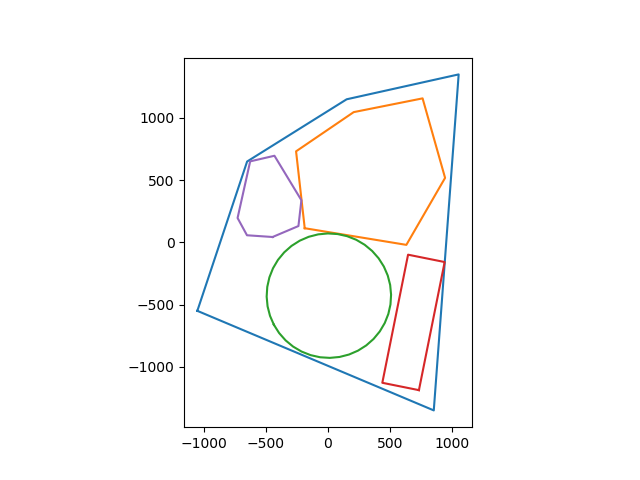
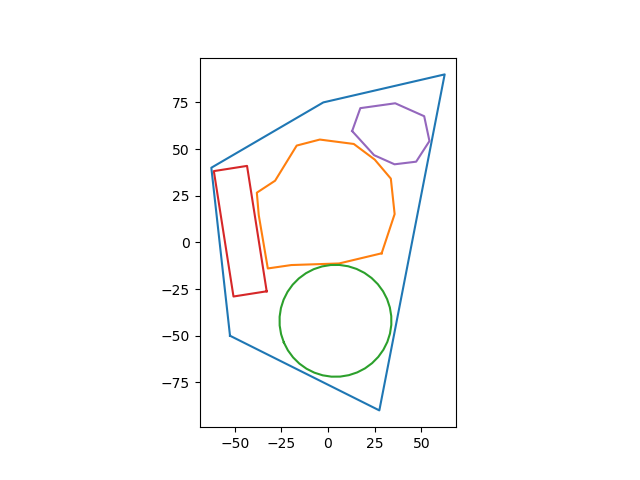
Fix some coords, update solutions

diff --git a/intelligent_placer_lib/objects_carver.py b/intelligent_placer_lib/objects_carver.py
@@ -21,9 +21,9 @@ predefined_convex_hulls = [
     [get_rect([45, 95]), "плеер"],
     [get_rect([45, 95]), "плеер"],
     [get_rect([45, 95]), "плеер"],
-    [[[117, 81],[106, 101],[95, 103],[93, 110],[75, 118],[67, 110],[60, 93],[42, 75],[20, 56],[11, 37],[15, 21],[33, 7],[65, 15],[86, 44],[104, 66]], "мышь"],
-    [[[117, 81],[106, 101],[95, 103],[93, 110],[75, 118],[67, 110],[60, 93],[42, 75],[20, 56],[11, 37],[15, 21],[33, 7],[65, 15],[86, 44],[104, 66]], "мышь"],
-    [[[117, 81],[106, 101],[95, 103],[93, 110],[75, 118],[67, 110],[60, 93],[42, 75],[20, 56],[11, 37],[15, 21],[33, 7],[65, 15],[86, 44],[104, 66]], "мышь"],
+    [[[117, 81], [106, 101], [95, 103], [93, 110], [75, 118], [67, 110], [20, 56], [15, 21], [33, 7], [65, 15], [86, 44], [104, 66]], "мышь"],
+    [[[117, 81], [106, 101], [95, 103], [93, 110], [75, 118], [67, 110], [20, 56], [15, 21], [33, 7], [65, 15], [86, 44], [104, 66]], "мышь"],
+    [[[117, 81], [106, 101], [95, 103], [93, 110], [75, 118], [67, 110], [20, 56], [15, 21], [33, 7], [65, 15], [86, 44], [104, 66]], "мышь"],
     [get_rect([55, 85]), "проездной"],
     [get_rect([55, 85]), "проездной"],
     [get_rect([55, 85]), "проездной"],
@@ -39,14 +39,14 @@ predefined_convex_hulls = [
     [get_ideal_polygon(30, 40), "йо-йо"],
     [get_ideal_polygon(30, 40), "йо-йо"],
     [get_ideal_polygon(30, 40), "йо-йо"],
-    [[[29, 53], [12, 45], [11, 29], [11, 17], [17, 7], [30, 5], [41, 13], [41, 30], [33, 37]], "точилка"],
-    [[[29, 53], [12, 45], [11, 29], [11, 17], [17, 7], [30, 5], [41, 13], [41, 30], [33, 37]], "точилка"],
-    [[[29, 53], [12, 45], [11, 29], [11, 17], [17, 7], [30, 5], [41, 13], [41, 30], [33, 37]], "точилка"],
-    [[[29, 53], [12, 45], [11, 29], [11, 17], [17, 7], [30, 5], [41, 13], [41, 30], [33, 37]], "точилка"],
-    [[[29, 53], [12, 45], [11, 29], [11, 17], [17, 7], [30, 5], [41, 13], [41, 30], [33, 37]], "точилка"],
-    [[[29, 53], [12, 45], [11, 29], [11, 17], [17, 7], [30, 5], [41, 13], [41, 30], [33, 37]], "точилка"],
-    [[[29, 53], [12, 45], [11, 29], [11, 17], [17, 7], [30, 5], [41, 13], [41, 30], [33, 37]], "точилка"],
-    [[[29, 53], [12, 45], [11, 29], [11, 17], [17, 7], [30, 5], [41, 13], [41, 30], [33, 37]], "точилка"],
+    [[[18, 45], [11, 29], [11, 17], [17, 7], [30, 5], [41, 13], [41, 30], [31, 46]], "точилка"],
+    [[[18, 45], [11, 29], [11, 17], [17, 7], [30, 5], [41, 13], [41, 30], [31, 46]], "точилка"],
+    [[[18, 45], [11, 29], [11, 17], [17, 7], [30, 5], [41, 13], [41, 30], [31, 46]], "точилка"],
+    [[[18, 45], [11, 29], [11, 17], [17, 7], [30, 5], [41, 13], [41, 30], [31, 46]], "точилка"],
+    [[[18, 45], [11, 29], [11, 17], [17, 7], [30, 5], [41, 13], [41, 30], [31, 46]], "точилка"],
+    [[[18, 45], [11, 29], [11, 17], [17, 7], [30, 5], [41, 13], [41, 30], [31, 46]], "точилка"],
+    [[[18, 45], [11, 29], [11, 17], [17, 7], [30, 5], [41, 13], [41, 30], [31, 46]], "точилка"],
+    [[[18, 45], [11, 29], [11, 17], [17, 7], [30, 5], [41, 13], [41, 30], [31, 46]], "точилка"],
     [get_rect([63, 40]), "футляр для наушников"],
     [get_rect([63, 40]), "футляр для наушников"],
     [get_rect([63, 40]), "футляр для наушников"],

diff --git a/main.py b/main.py
@@ -6,7 +6,7 @@ def run_intelligent_placer(path, polygon):
 
 
 if __name__ == '__main__':
-    polygon_points = [[0, 0], [400, 1200], [1200, 1700], [2100, 1900], [1900, -800]]
+    polygon_points = [[40, 0], [30, 90], [90, 125], [155, 140], [120, -40]]
     for i in range(1, 6):
         path = "PlacerDataset/" + str(i) + ".jpg"
         print(run_intelligent_placer(path, polygon_points))
